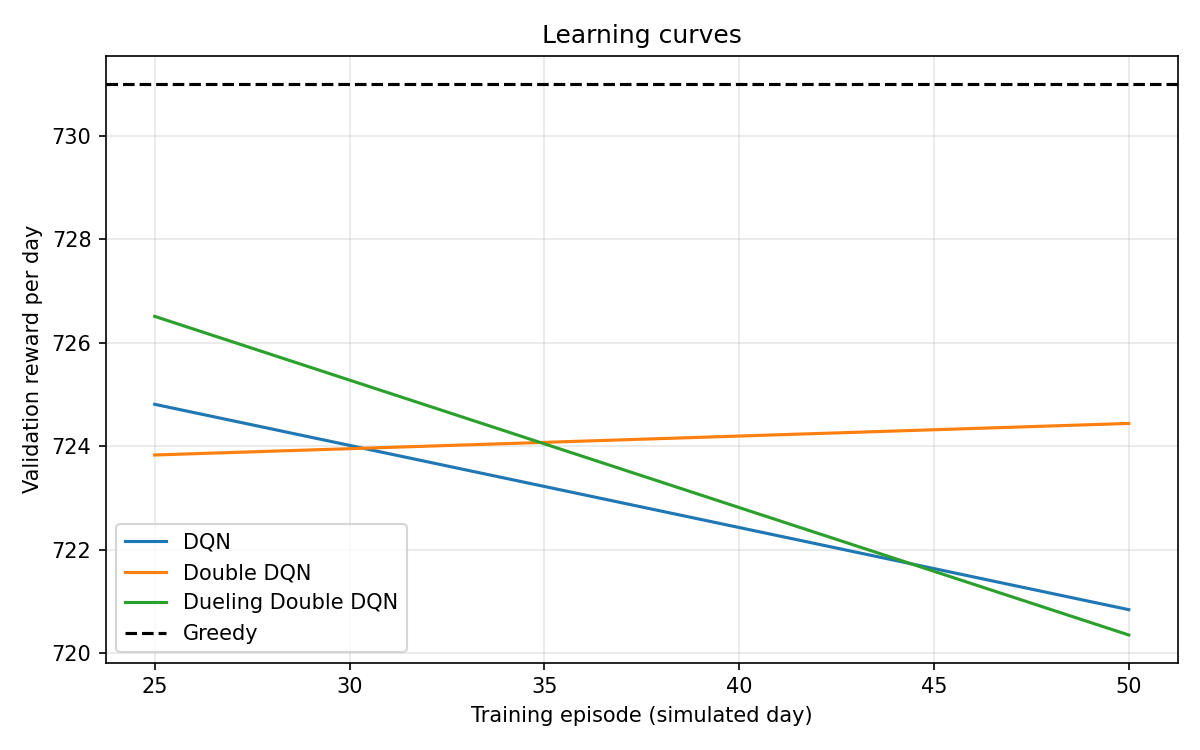
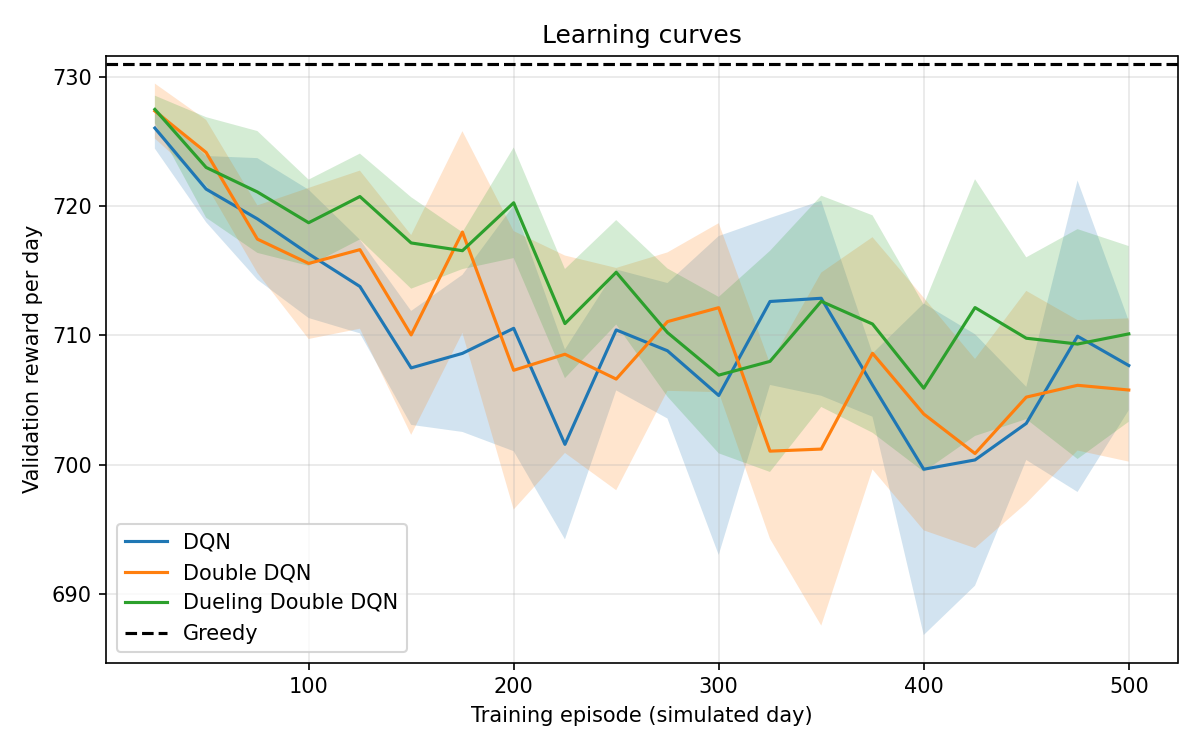
Runing the train, eval pipeline

diff --git a/README.md b/README.md
@@ -323,6 +323,12 @@ gatemind/
 
 Results will be added after training.
 
+```bash
+python main.py train
+python main.py evaluate
+python main.py plot
+```
+
 <br>
 
 
